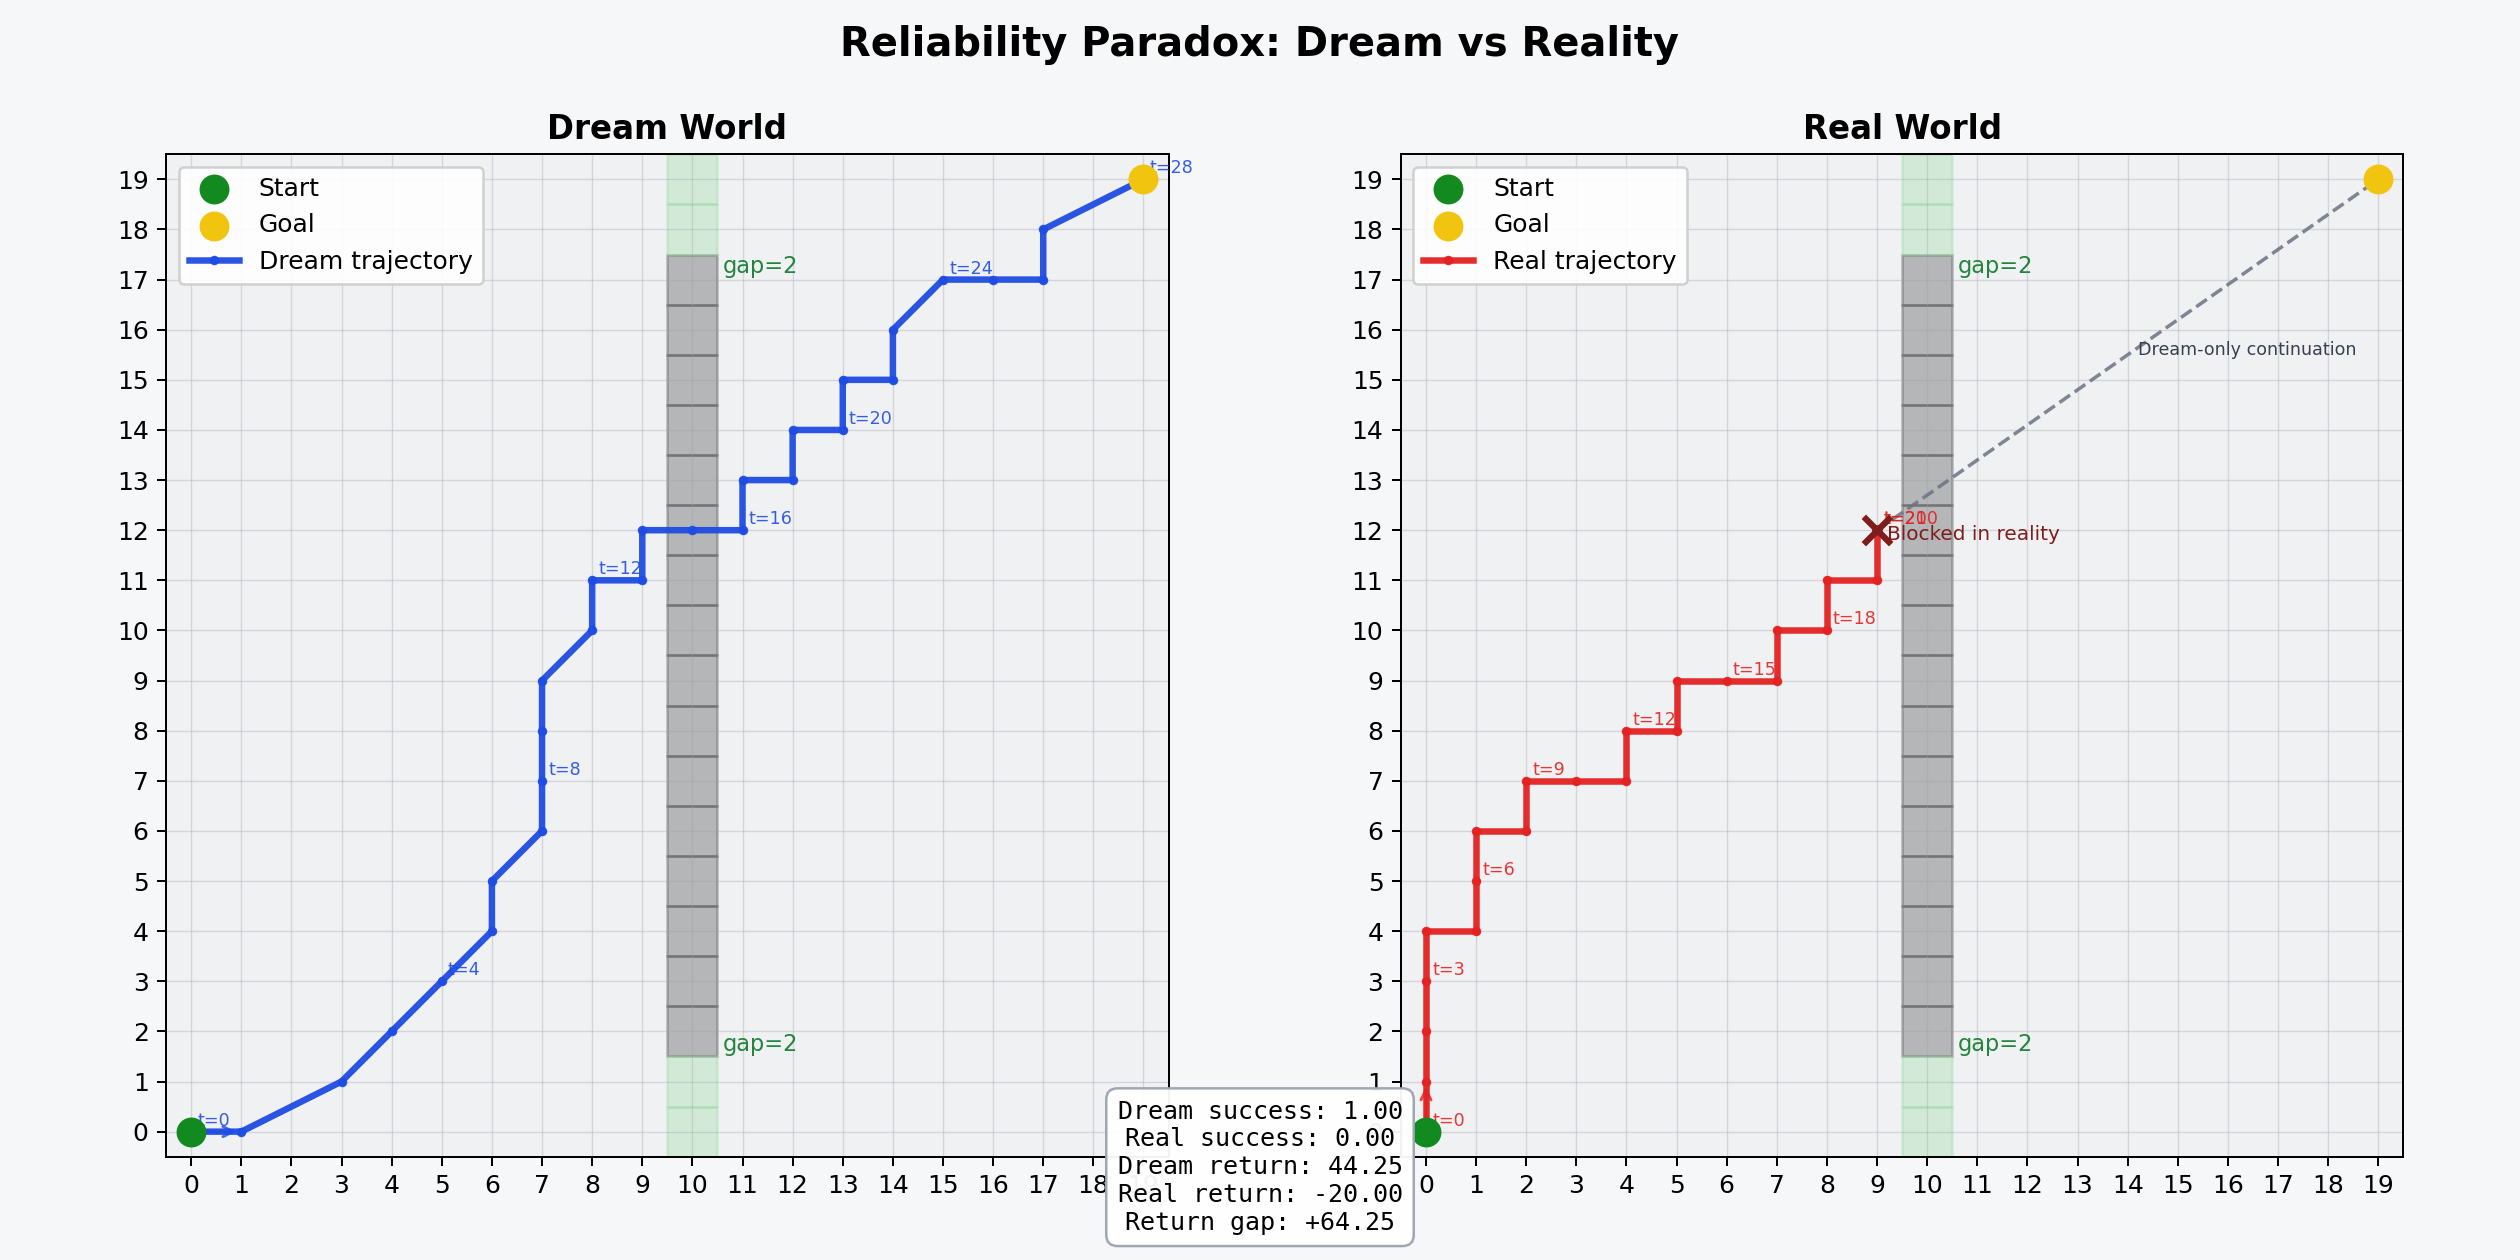
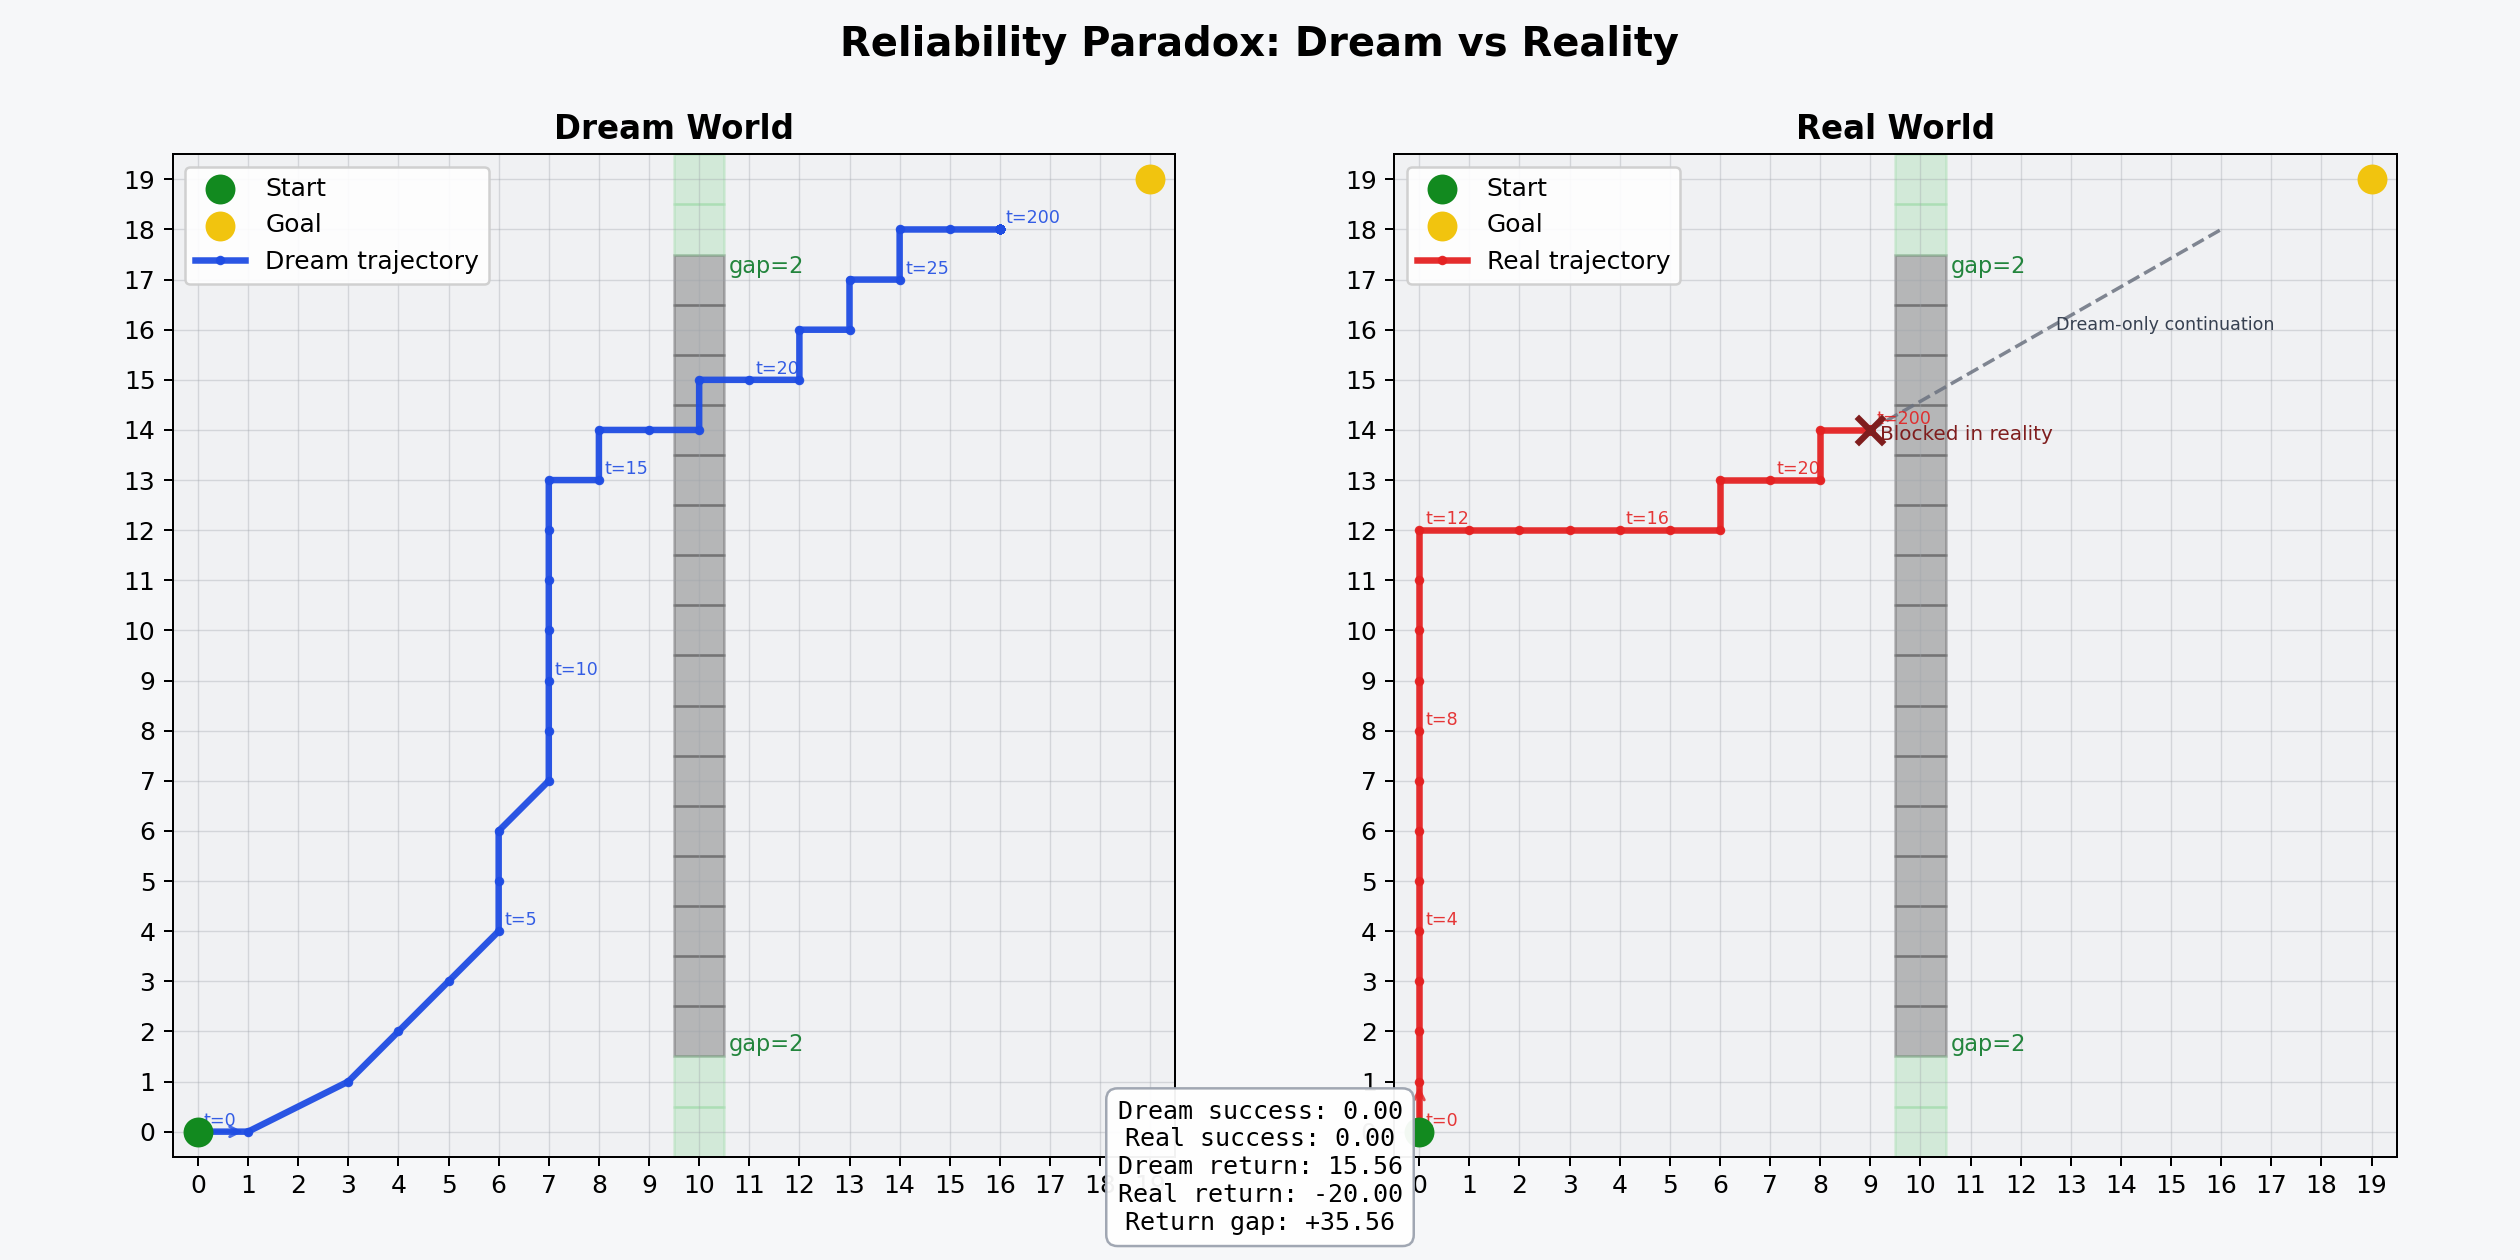
Added script to generate empty grid output to use for presentation

diff --git a/empty_grid_plot.py b/empty_grid_plot.py
@@ -1,0 +1,53 @@
+import matplotlib.pyplot as plt
+from matplotlib.patches import Rectangle
+import numpy as np
+
+def plot_empty_grid(grid_size=20, wall_gap=2, save_path="empty_grid.png"):
+    """
+    Plot an empty grid world similar to Figure_1.png but without trajectories.
+    """
+    gs = grid_size
+
+    fig, ax = plt.subplots(1, 1, figsize=(7, 7), dpi=140)
+    fig.patch.set_facecolor("#f6f7f9")
+    ax.set_facecolor("#f0f1f3")
+    ax.set_xlim(-0.5, gs - 0.5)
+    ax.set_ylim(-0.5, gs - 0.5)
+    ax.set_xticks(range(gs))
+    ax.set_yticks(range(gs))
+    ax.grid(True, which="both", linewidth=0.55, alpha=0.35, color="#9ea3aa")
+    ax.set_aspect("equal")
+
+    wall_x = gs // 2
+    gap = wall_gap
+
+    # Draw walls
+    wall_ys = set(range(gap, gs - gap))
+    for y in sorted(wall_ys):
+        ax.add_patch(Rectangle((wall_x - 0.5, y - 0.5), 1.0, 1.0, color="#3a3a3a", alpha=0.32))
+
+    # Draw gaps (green areas)
+    for y in range(0, gap):
+        ax.add_patch(Rectangle((wall_x - 0.5, y - 0.5), 1.0, 1.0, color="#7fd38c", alpha=0.26))
+    for y in range(gs - gap, gs):
+        ax.add_patch(Rectangle((wall_x - 0.5, y - 0.5), 1.0, 1.0, color="#7fd38c", alpha=0.26))
+
+    # Add gap labels
+    ax.text(wall_x + 0.6, gap - 0.5, f"gap={gap}", color="#187f33", fontsize=9, va="bottom", ha="left", alpha=0.95)
+    ax.text(wall_x + 0.6, gs - gap - 0.5, f"gap={gap}", color="#187f33", fontsize=9, va="top", ha="left", alpha=0.95)
+
+    # Draw start and goal
+    sx, sy = 0, 0
+    gx, gy = gs - 1, gs - 1
+    ax.scatter([sx], [sy], c="#128a1f", s=120, label="Start", zorder=7)
+    ax.scatter([gx], [gy], c="#f1c40f", s=120, label="Goal", zorder=7)
+
+    ax.set_title("Empty Grid World")
+    ax.legend()
+
+    plt.savefig(save_path, bbox_inches='tight')
+    plt.close()
+    print(f"Empty grid plot saved to {save_path}")
+
+if __name__ == "__main__":
+    plot_empty_grid()
